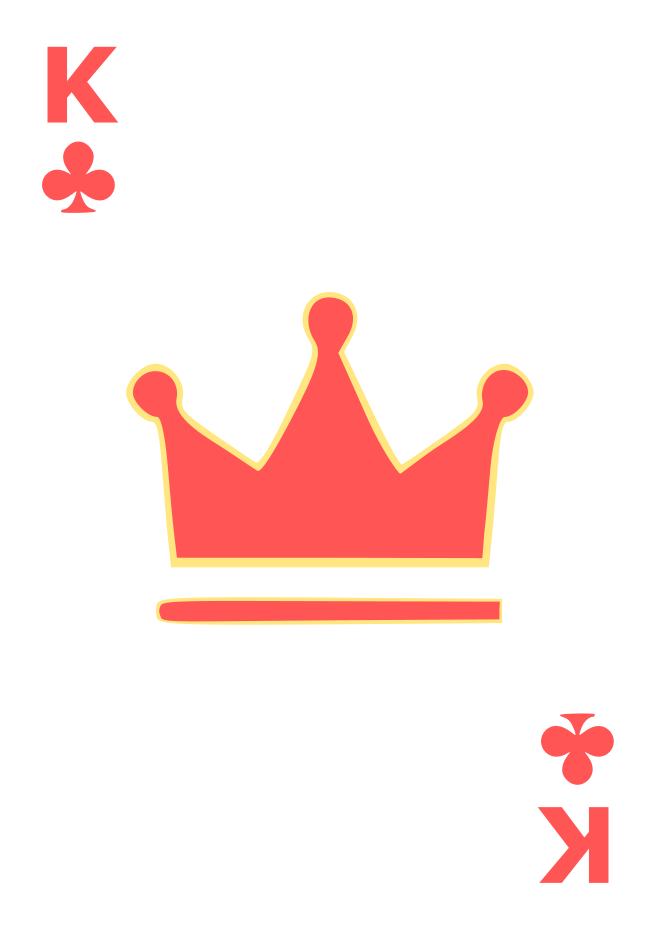
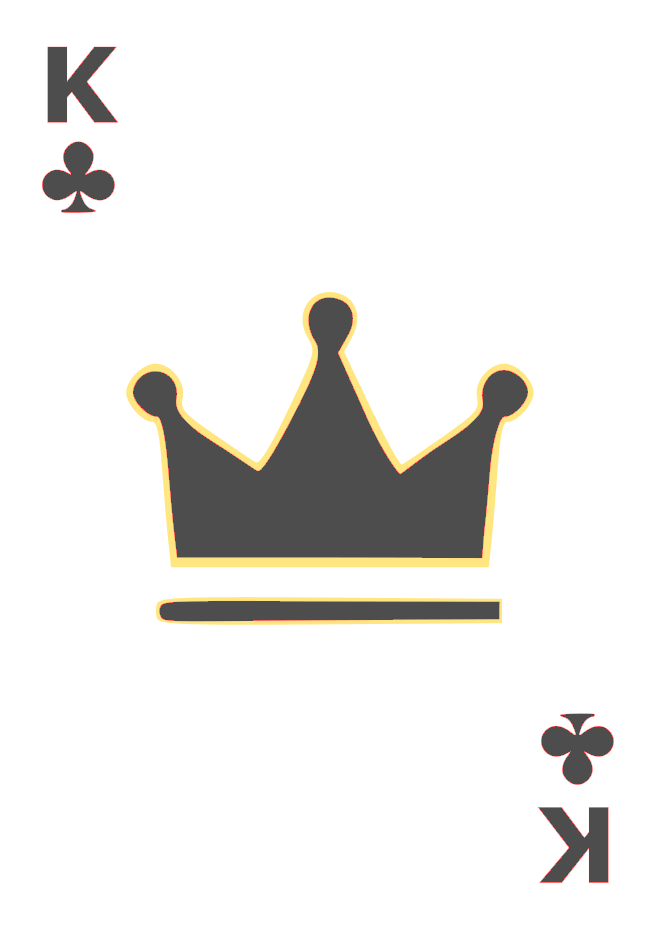
cores das cartas mudadas, classe card criada

diff --git a/src/Deck/Deck.js b/src/Deck/Deck.js
@@ -42,6 +42,7 @@ import TQ from '../assets/cards/Tiles_Queen_white.png';
 import TJ from '../assets/cards/Tiles_Jack_white.png';
 import TK from '../assets/cards/Tiles_King_white.png';
 
+import Card from '../Card/Card';
 
 class Deck{
     static shuffleDeck(array){
@@ -59,10 +60,48 @@ class Deck{
     }
 
     static getDeckList(){
-        let deck = [CA, C2, C3, C4, C5, C6, C7, CQ, CJ, CK,
-                    HA, H2, H3, H4, H5, H6, H7, HQ, HJ, HK,
-                    PA, P2, P3, P4, P5, P6, P7, PQ, PJ, PK,
-                    TA, T2, T3, T4, T5, T6, T7, TQ, TJ, TK];
+        let deck = [
+            <Card naipe="Clovers" valor="A" valorReal="8"  image={CA}></Card>,
+            <Card naipe="Clovers" valor="2" valorReal="9"  image={C2}></Card>,
+            <Card naipe="Clovers" valor="3" valorReal="10" image={C3}></Card>,
+            <Card naipe="Clovers" valor="4" valorReal="1"  image={C4}></Card>,
+            <Card naipe="Clovers" valor="5" valorReal="2"  image={C5}></Card>,
+            <Card naipe="Clovers" valor="6" valorReal="3"  image={C6}></Card>,
+            <Card naipe="Clovers" valor="7" valorReal="4"  image={C7}></Card>,
+            <Card naipe="Clovers" valor="Q" valorReal="5"  image={CQ}></Card>,
+            <Card naipe="Clovers" valor="J" valorReal="6"  image={CJ}></Card>,
+            <Card naipe="Clovers" valor="K" valorReal="7"  image={CK}></Card>,
+            <Card naipe="Hearts"  valor="A" valorReal="8"  image={HA}></Card>,
+            <Card naipe="Hearts"  valor="2" valorReal="9"  image={H2}></Card>,
+            <Card naipe="Hearts"  valor="3" valorReal="10" image={H3}></Card>,
+            <Card naipe="Hearts"  valor="4" valorReal="1"  image={H4}></Card>,
+            <Card naipe="Hearts"  valor="5" valorReal="2"  image={H5}></Card>,
+            <Card naipe="Hearts"  valor="6" valorReal="3"  image={H6}></Card>,
+            <Card naipe="Hearts"  valor="7" valorReal="4"  image={H7}></Card>,
+            <Card naipe="Hearts"  valor="Q" valorReal="5"  image={HQ}></Card>,
+            <Card naipe="Hearts"  valor="J" valorReal="6"  image={HJ}></Card>,
+            <Card naipe="Hearts"  valor="K" valorReal="7"  image={HK}></Card>,
+            <Card naipe="Pikes"   valor="A" valorReal="8"  image={PA}></Card>,
+            <Card naipe="Pikes"   valor="2" valorReal="9"  image={P2}></Card>,
+            <Card naipe="Pikes"   valor="3" valorReal="10" image={P3}></Card>,
+            <Card naipe="Pikes"   valor="4" valorReal="1"  image={P4}></Card>,
+            <Card naipe="Pikes"   valor="5" valorReal="2"  image={P5}></Card>,
+            <Card naipe="Pikes"   valor="6" valorReal="3"  image={P6}></Card>,
+            <Card naipe="Pikes"   valor="7" valorReal="4"  image={P7}></Card>,
+            <Card naipe="Pikes"   valor="Q" valorReal="5"  image={PQ}></Card>,
+            <Card naipe="Pikes"   valor="J" valorReal="6"  image={PJ}></Card>,
+            <Card naipe="Pikes"   valor="K" valorReal="7"  image={PK}></Card>,
+            <Card naipe="Tiles"   valor="A" valorReal="8"  image={TA}></Card>,
+            <Card naipe="Tiles"   valor="2" valorReal="9"  image={T2}></Card>,
+            <Card naipe="Tiles"   valor="3" valorReal="10" image={T3}></Card>,
+            <Card naipe="Tiles"   valor="4" valorReal="1"  image={T4}></Card>,
+            <Card naipe="Tiles"   valor="5" valorReal="2"  image={T5}></Card>,
+            <Card naipe="Tiles"   valor="6" valorReal="3"  image={T6}></Card>,
+            <Card naipe="Tiles"   valor="7" valorReal="4"  image={T7}></Card>,
+            <Card naipe="Tiles"   valor="Q" valorReal="5"  image={TQ}></Card>,
+            <Card naipe="Tiles"   valor="J" valorReal="6"  image={TJ}></Card>,
+            <Card naipe="Tiles"   valor="K" valorReal="7"  image={TK}></Card>,
+        ]                   
 
         return this.shuffleDeck(deck);
     }

diff --git a/src/Card/Card.js b/src/Card/Card.js
@@ -1,0 +1,21 @@
+import React from 'react';
+import './Card.css';
+
+class Card extends React.Component{
+    constructor(props){
+        super(props);
+        this.state = {
+            naipe: props.naipe,
+            valor: props.valor,
+            valorReal: props.valorReal
+        }
+    }
+
+    render(){
+        return (
+            <img src={this.props.image}/>
+        );
+    };
+}
+
+export default Card;

diff --git a/src/Jogo/Jogo.js b/src/Jogo/Jogo.js
@@ -18,7 +18,7 @@ function Jogo(){
     function ExhibitCard(){
         let cartas = [];
         for (let i = 1; i <= cardQtd; i++) {
-            cartas.push(<img src={deck[i-1]} className="CardInHand"/>);
+            cartas.push(<div className="CardInHand"> {deck[i-1]} </div>);
         }
         if(!isQtdCartasModalOpen)
             return cartas;

diff --git a/src/Jogo/Jogo.css b/src/Jogo/Jogo.css
@@ -4,6 +4,7 @@
 
 .JogoBoard{
     width: 74.5%;
+    background-color: #4d4d4d;
 }
 
 .Hand{
@@ -18,11 +19,15 @@
 }
 
 .CardInHand{
+    
+}
+.CardInHand img{
     float: left;
     height: 160px;
     margin: 5px;
+    border-radius: 14px;
 }
 
-.CardInHand:hover {
+.CardInHand img:hover {
     height: 170px;
   }
